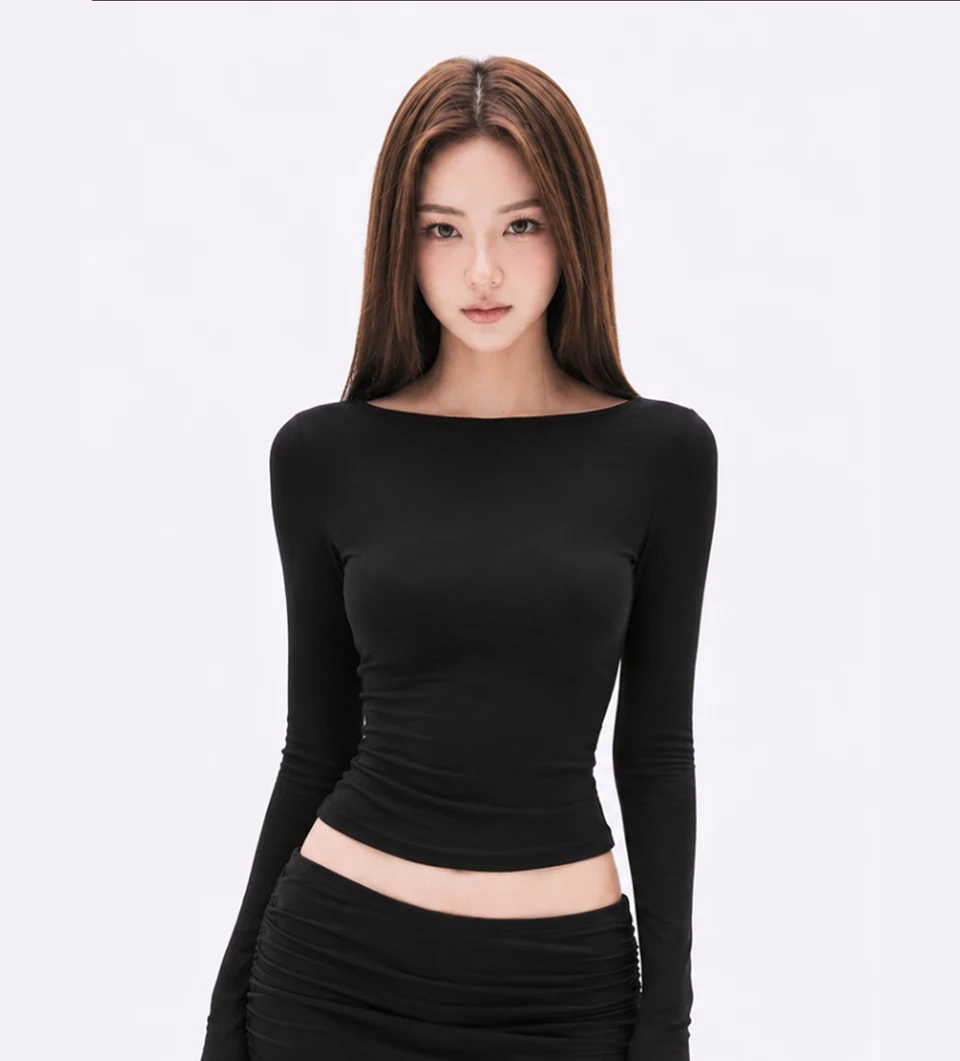
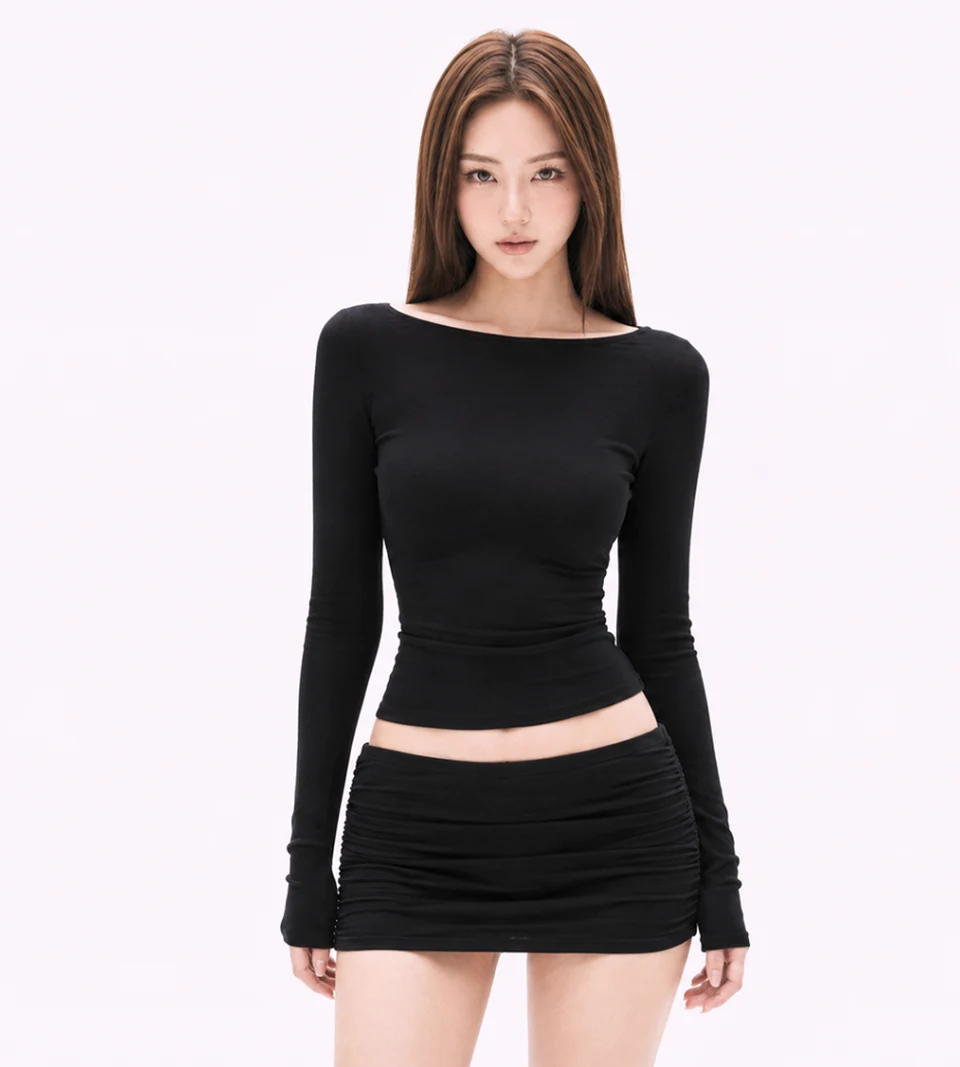
Update Elsie photos, drop "Drop 02" label, remember viewed item
- Replaced Elsie_1/Elsie_3 with the updated photos and regenerated
  their optimized webp variants.
- Removed "— Drop 02" from the detail page kicker (now just "Casual
  Line") per request to drop it everywhere on the landing.
- Homepage now remembers which item card the user last clicked
  (sessionStorage) and scrolls the product row back to it on load,
  so returning from a product-detail page lands them back on the
  same item instead of the start of the row. Also switched the
  detail page's back link to use history.back() when there's a
  same-origin referrer, so browsers that restore full scroll state
  via bfcache get an even smoother return.

Changed region(s): [[0.1875, 0.0, 0.7812, 1.0]]

diff --git a/v2/index.html b/v2/index.html
@@ -316,5 +316,43 @@
         });
       })();
     </script>
+    <script>
+      (() => {
+        const STORAGE_KEY = "jaune-v2-last-viewed-item";
+        const productRow = document.querySelector(".v2-product-row");
+        if (!productRow) return;
+
+        function readLastViewedSlug() {
+          try {
+            return sessionStorage.getItem(STORAGE_KEY);
+          } catch {
+            return null;
+          }
+        }
+
+        function writeLastViewedSlug(slug) {
+          try {
+            sessionStorage.setItem(STORAGE_KEY, slug);
+          } catch {
+            // ignore storage errors (e.g. private browsing)
+          }
+        }
+
+        productRow.querySelectorAll(".v2-product-card").forEach((card) => {
+          card.addEventListener("click", () => {
+            const slug = new URL(card.href).searchParams.get("product");
+            if (slug) writeLastViewedSlug(slug);
+          });
+        });
+
+        const lastViewedSlug = readLastViewedSlug();
+        if (!lastViewedSlug) return;
+
+        const targetCard = productRow.querySelector(`a[href*="product=${lastViewedSlug}"]`);
+        if (targetCard) {
+          targetCard.scrollIntoView({ inline: "center", block: "nearest", behavior: "instant" });
+        }
+      })();
+    </script>
   </body>
 </html>

diff --git a/v2/airtable.js b/v2/airtable.js
@@ -703,6 +703,18 @@ function renderProductDetail() {
   };
 }
 
+const detailBackLink = document.querySelector(".detail-back");
+if (detailBackLink) {
+  detailBackLink.addEventListener("click", (event) => {
+    const sameOriginReferrer =
+      document.referrer && new URL(document.referrer).origin === window.location.origin;
+    if (sameOriginReferrer && window.history.length > 1) {
+      event.preventDefault();
+      window.history.back();
+    }
+  });
+}
+
 renderProductDetail();
 processInterestQueue();
 window.addEventListener("online", processInterestQueue);

diff --git a/v2/product-detail.html b/v2/product-detail.html
@@ -64,7 +64,7 @@
       <div id="detail-gallery-dots" class="detail-gallery-dots" aria-hidden="true"></div>
 
       <section class="detail-info" aria-labelledby="detail-name">
-        <p class="detail-kicker">Casual Line — Drop 02</p>
+        <p class="detail-kicker">Casual Line</p>
         <h1 id="detail-name" class="detail-name"></h1>
         <p id="detail-price" class="detail-price"></p>
         <hr class="detail-divider">
